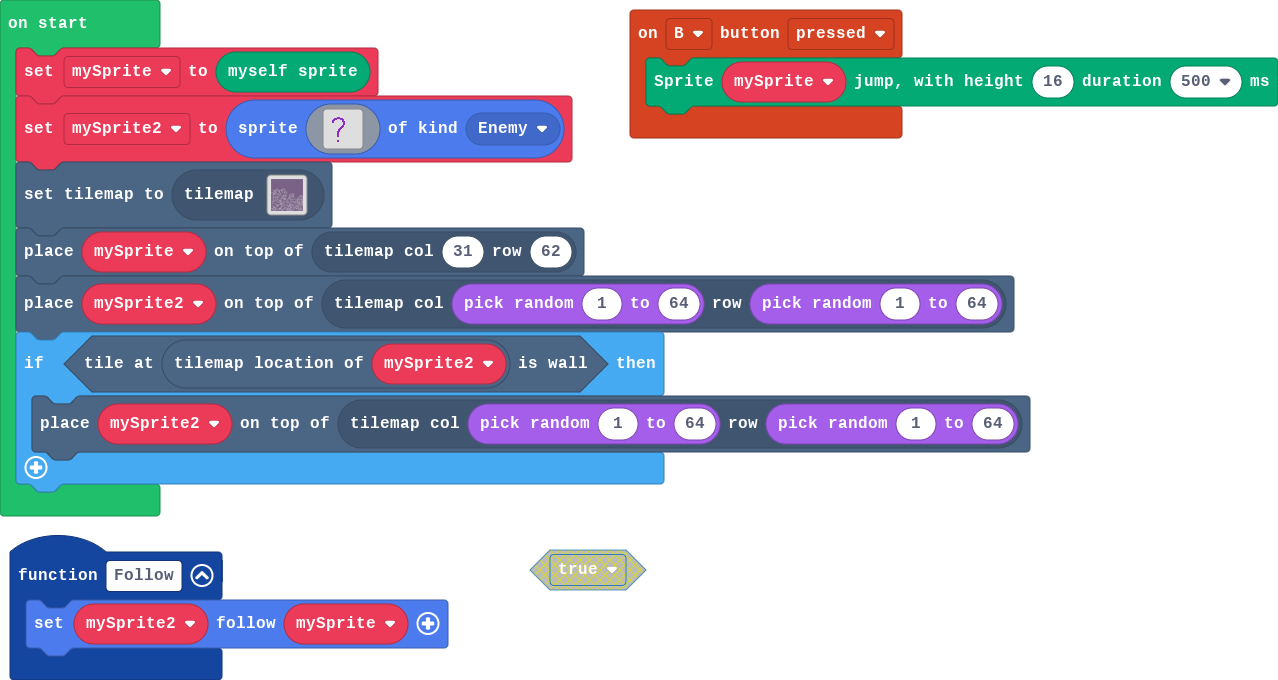
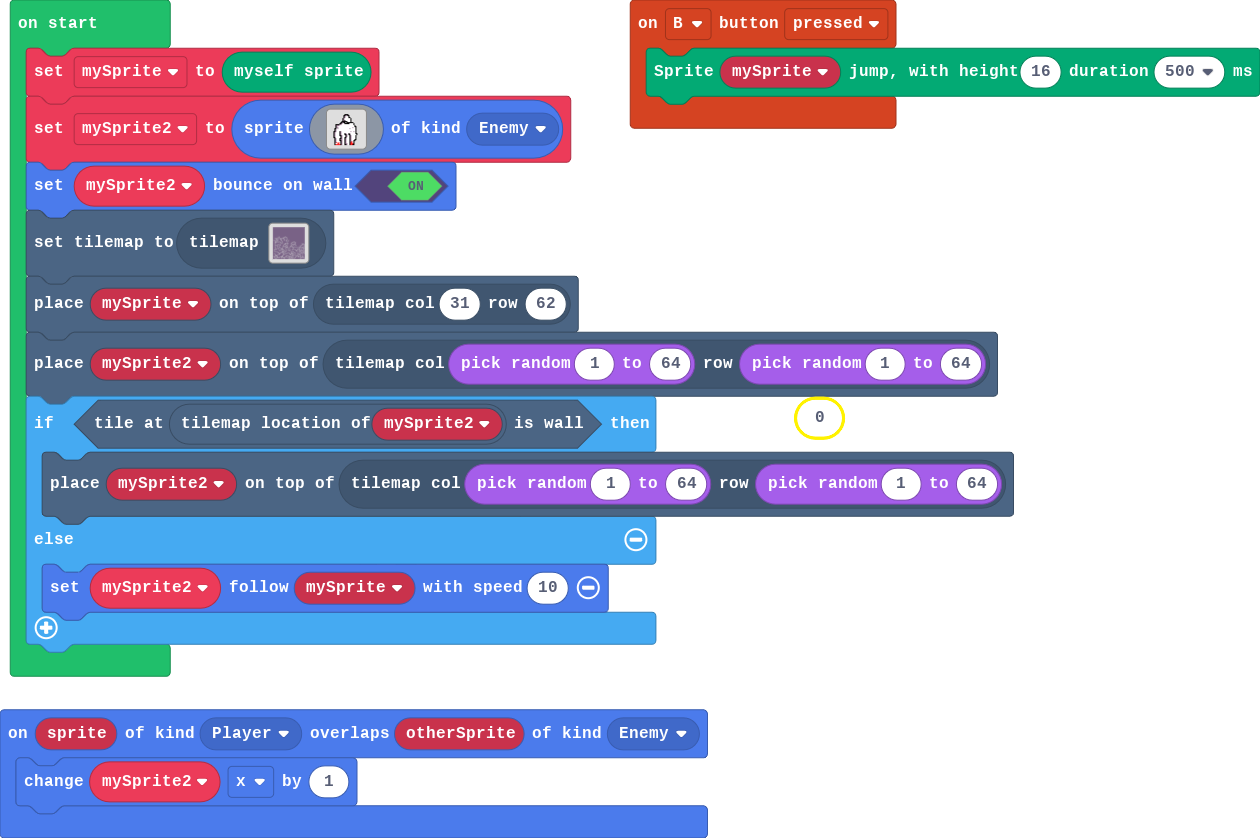
Update pxt.json, main.blocks, main.ts

diff --git a/main.ts b/main.ts
@@ -1,49 +1,55 @@
-function Follow () {
-    mySprite2.follow(mySprite)
-}
 controller.B.onEvent(ControllerButtonEvent.Pressed, function () {
     Render.jumpWithHeightAndDuration(mySprite, 16, 500)
+})
+sprites.onOverlap(SpriteKind.Player, SpriteKind.Enemy, function (sprite, otherSprite) {
+    mySprite2.x += 1
 })
 let mySprite2: Sprite = null
 let mySprite: Sprite = null
 mySprite = Render.getRenderSpriteVariable()
 mySprite2 = sprites.create(img`
     ................................
-    ................................
-    ................................
-    ................................
-    ..........aaa...................
-    .......aaaaaaaaa................
-    ......aaaa...aaaa...............
-    .....aaa.......aa...............
-    .....aa........aaa..............
-    .....aa.........aa..............
-    ................aa..............
-    ................aa..............
-    ...............aa...............
-    ..............aaa...............
-    .............aaa................
-    ............aaa.................
-    ...........aaa..................
-    ...........aa...................
-    ..........aaa...................
-    ..........aa....................
-    ..........aa....................
-    ..........aa....................
-    ..........aa....................
-    ..........aa....................
-    ................................
-    ................................
-    ................................
-    ..........aa....................
-    ..........aa....................
-    ................................
-    ................................
-    ................................
+    ..............ffff..............
+    .............ffbbff.............
+    .............fb111f.............
+    .............fb111ff............
+    ............fb111111f...........
+    ............fb111111f...........
+    ............fbf11111f...........
+    ...........ffffff111f...........
+    ..........ffbff1fffffff.........
+    .........ffb11fffff1111f........
+    .....ffffbb111111111111f........
+    .....fbbb111111111111111f.......
+    .....fb11111111111111111ff......
+    .....fbb11111111111111b11f......
+    ....ff1b11111111111b11111f......
+    ....fb1111111111111111111f......
+    ....fb1111111111111111111f......
+    ...ffb111fb111111111b11b1f......
+    ...fb1111fb11111111111111f......
+    ...fb1111fb111fb11fb11111ff.....
+    ...fb1111fb111ffb1ff111111f.....
+    ...fb1111ffb111fb11fb1111f......
+    ...fb11111fb111fb11fb1111f......
+    ...ff11111fb11ff111fb1111f......
+    ....fb111ffb11fb111fb1111f......
+    ....fb111fbb11fb111fb111ff......
+    ....fb111ffb11fb111fb11ff.......
+    ....fb1111fb11fb111fb21f........
+    ....fb2121fb11fb111f221f........
+    ....f11221fb11fbb11f222f........
+    ....f22222fb11ffb11f22ff........
     `, SpriteKind.Enemy)
+mySprite2.setBounceOnWall(true)
 tiles.setCurrentTilemap(tilemap`level`)
 tiles.placeOnTile(mySprite, tiles.getTileLocation(31, 62))
 tiles.placeOnTile(mySprite2, tiles.getTileLocation(randint(1, 64), randint(1, 64)))
 if (tiles.tileAtLocationIsWall(mySprite2.tilemapLocation())) {
     tiles.placeOnTile(mySprite2, tiles.getTileLocation(randint(1, 64), randint(1, 64)))
+} else {
+    mySprite2.follow(mySprite, 10)
 }
+forever(function () {
+	
+})
